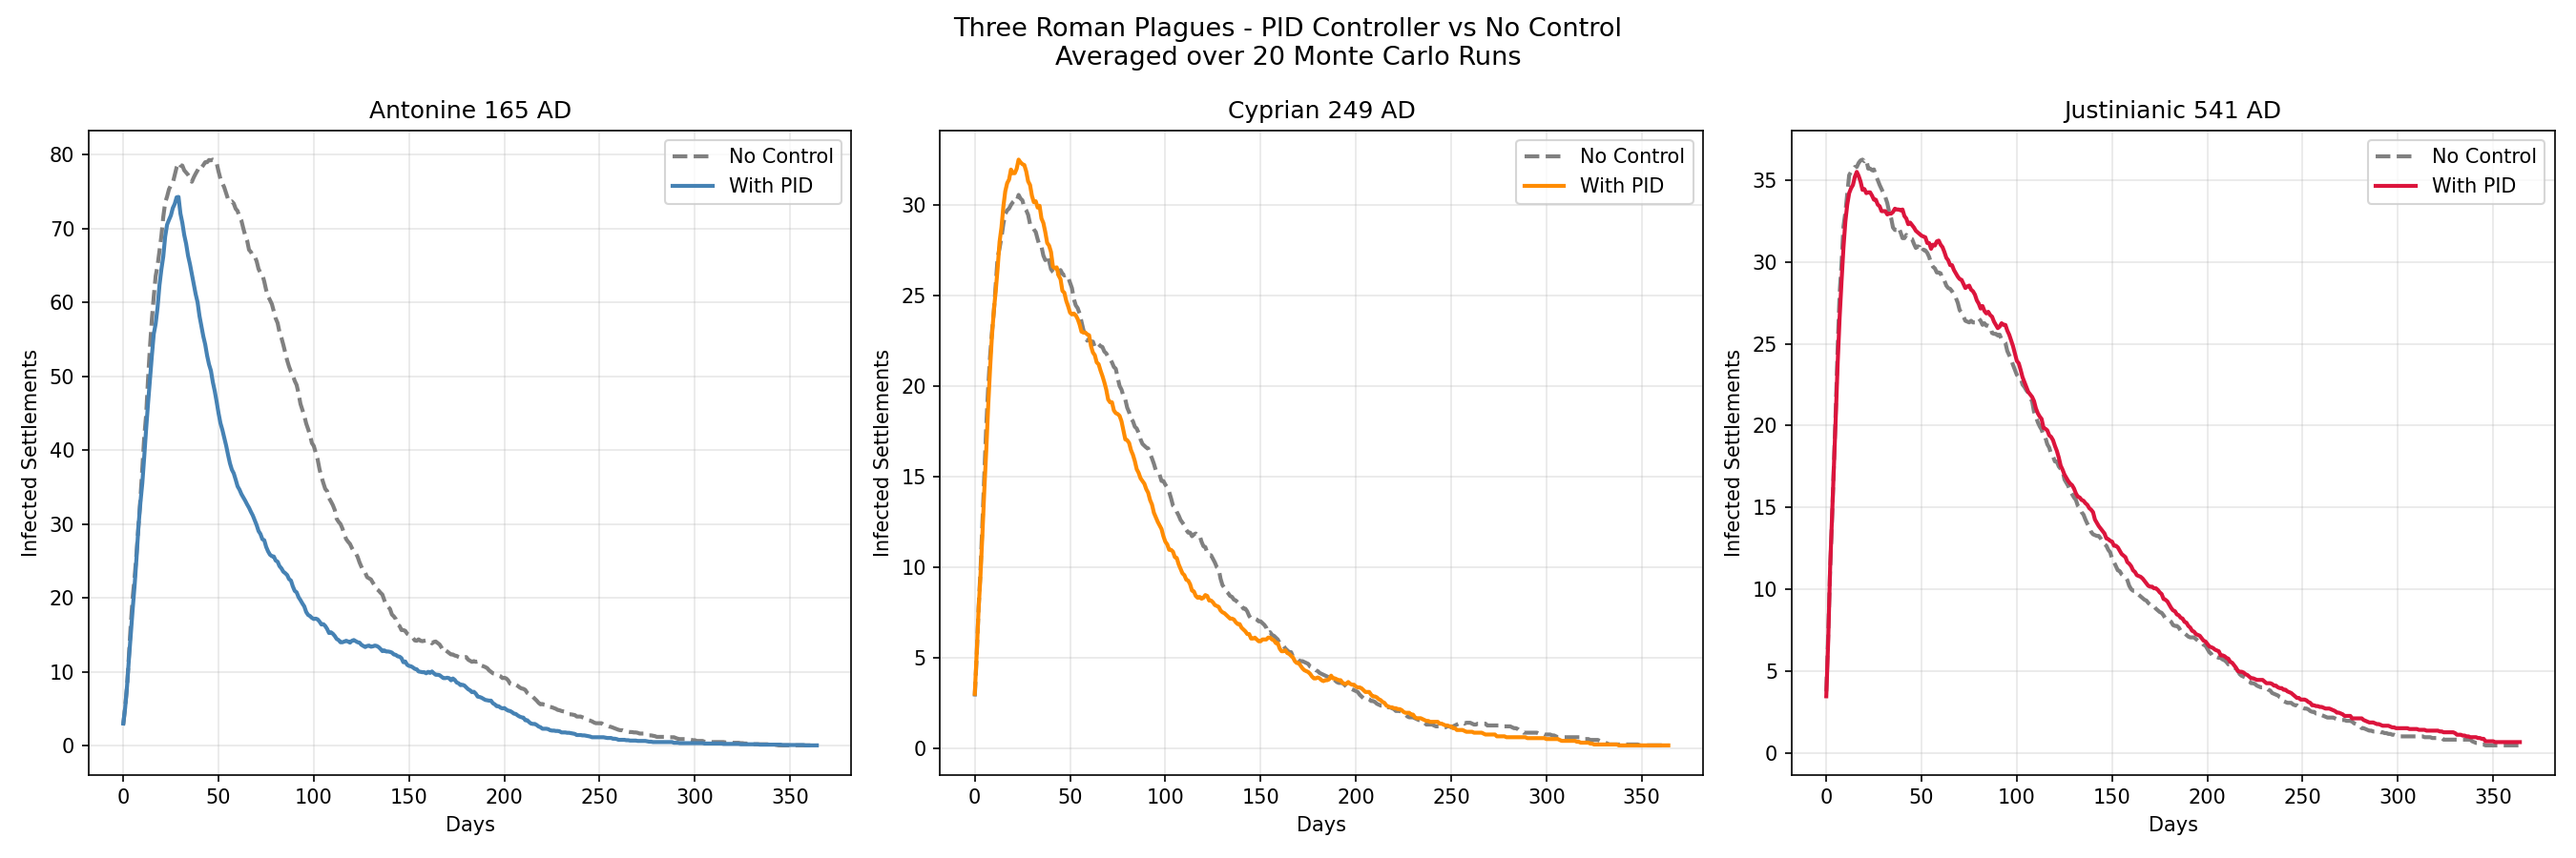
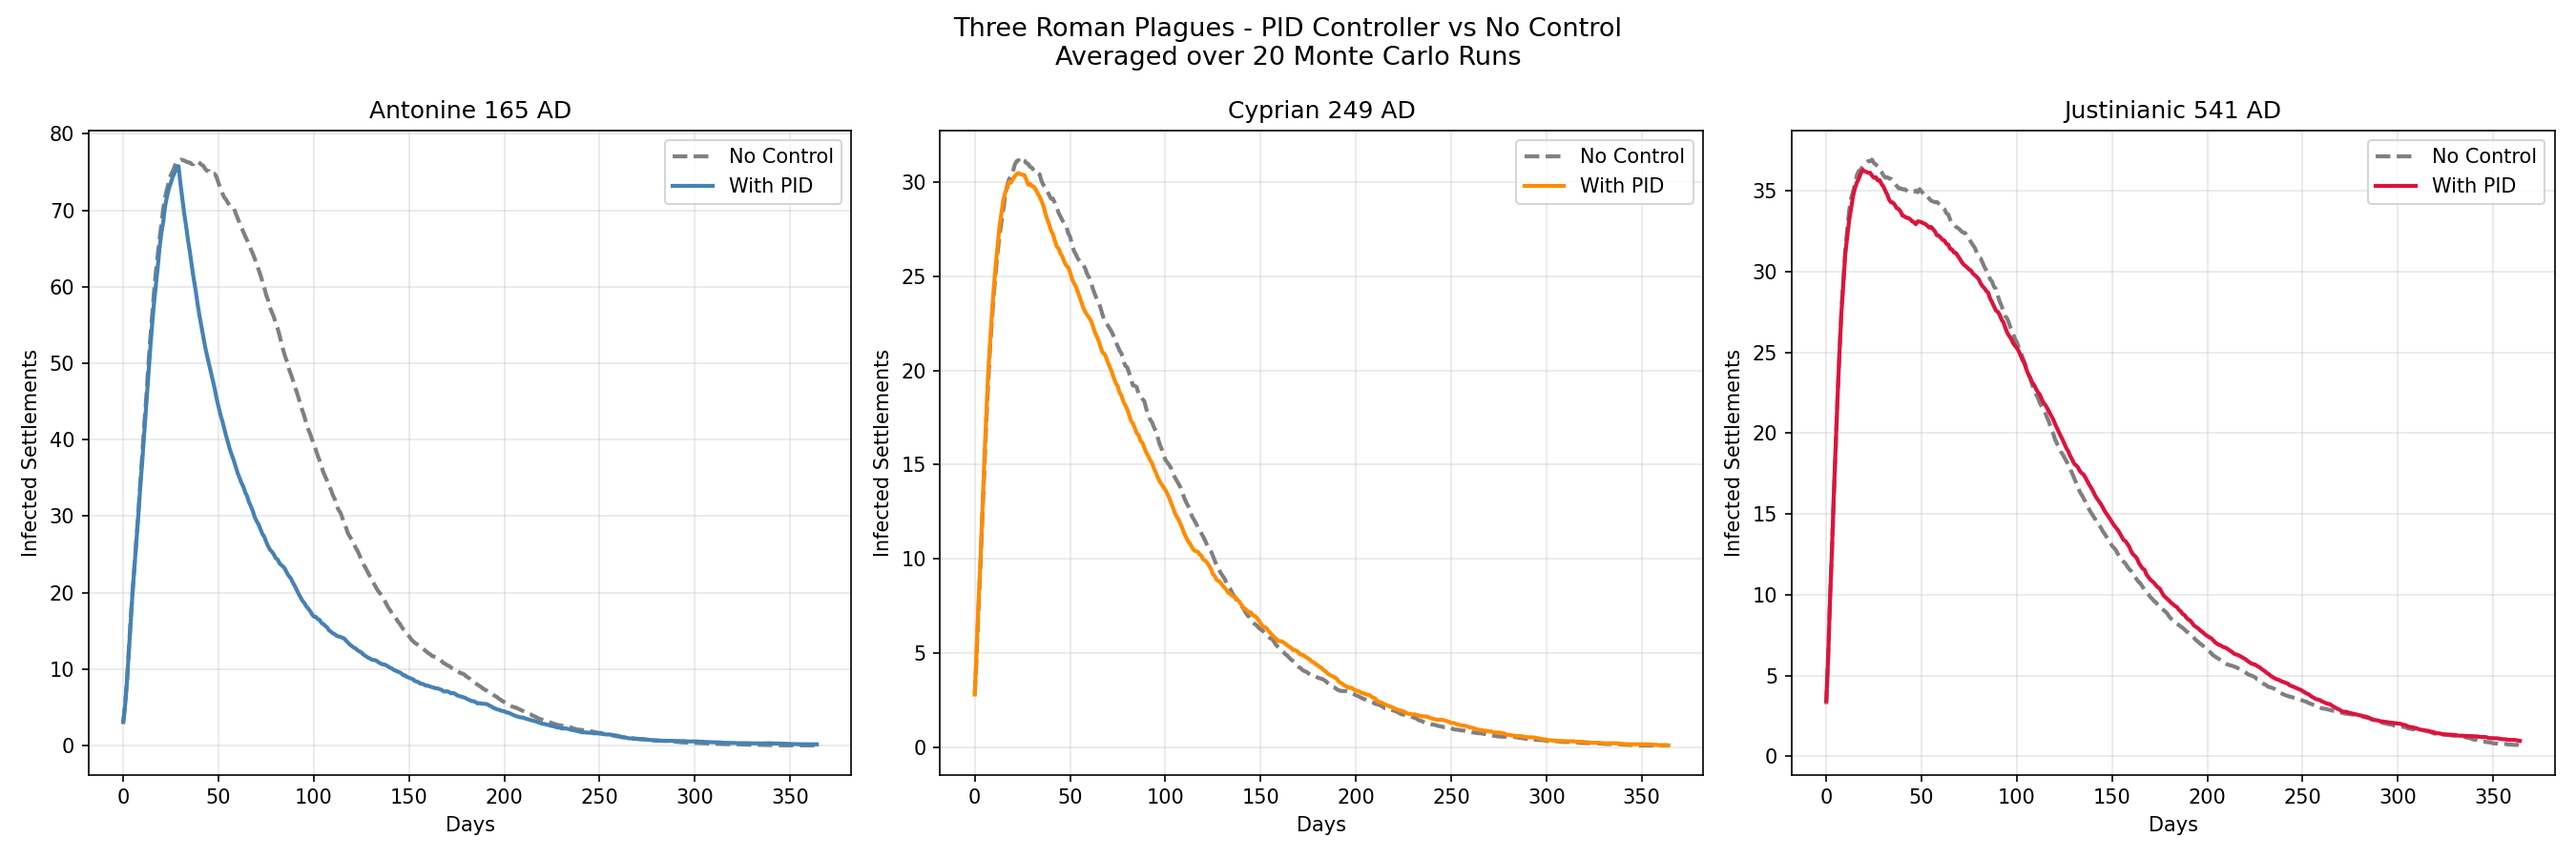
Add acknowledgements to README

diff --git a/main.py b/main.py
@@ -21,7 +21,7 @@ print("\nRunning all scenarios...")
 
 results = {}
 
-N_RUNS = 20  # number of Monte Carlo runs
+N_RUNS = 100 # number of Monte Carlo runs
 
 def monte_carlo(run_func, n_runs=N_RUNS):
     pid_affected = []

diff --git a/historical_scenarios.py b/historical_scenarios.py
@@ -23,7 +23,7 @@ MODELLED_LAGS = {
     'Justinianic': 45
 }
 
-N_RUNS = 20
+N_RUNS = 100
 
 def run_with_lag(run_func, lag, n_runs=N_RUNS):
     pid_affected = []
